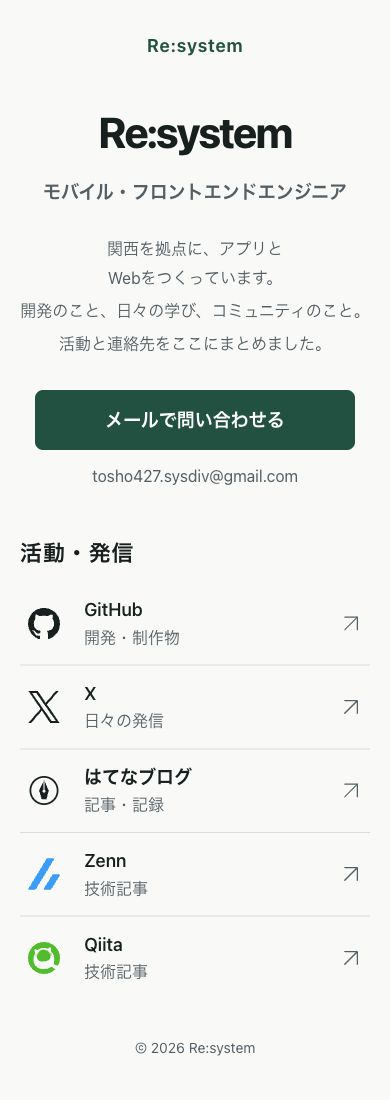
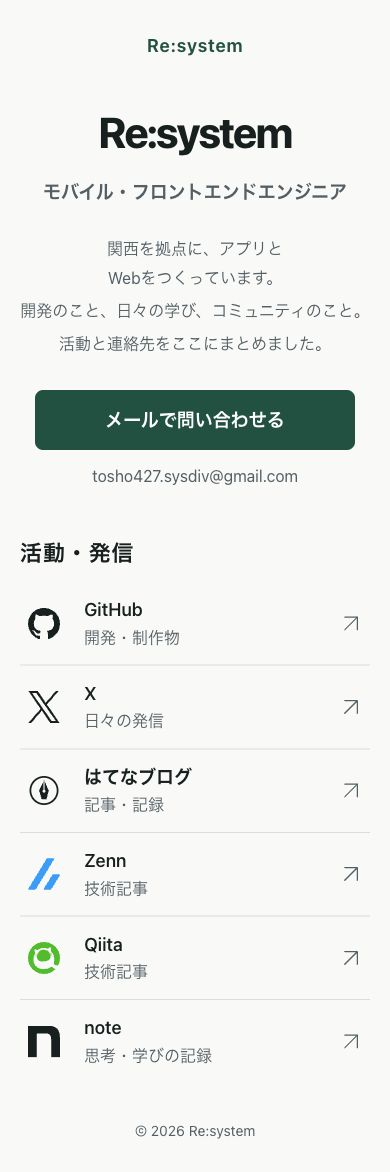
活動・発信にnoteのリンクを追加

diff --git a/src/components/sections/Links.tsx b/src/components/sections/Links.tsx
@@ -1,6 +1,7 @@
 import styles from './Links.module.css';
 import blogIcon from '../../assets/icons/blog.svg';
 import githubIcon from '../../assets/icons/github.svg';
+import noteIcon from '../../assets/icons/note.svg';
 import qiitaIcon from '../../assets/icons/qiita.svg';
 import xIcon from '../../assets/icons/x.svg';
 import zennIcon from '../../assets/icons/zenn.svg';
@@ -8,7 +9,14 @@ import { profile } from '../../data/profile';
 
 import type { FC } from 'react';
 
-const icons = { github: githubIcon, x: xIcon, blog: blogIcon, zenn: zennIcon, qiita: qiitaIcon };
+const icons = {
+  github: githubIcon,
+  x: xIcon,
+  blog: blogIcon,
+  zenn: zennIcon,
+  qiita: qiitaIcon,
+  note: noteIcon,
+};
 
 export const Links: FC = () => (
   <section className={styles.links} aria-labelledby="links-title">

diff --git a/src/data/profile.ts b/src/data/profile.ts
@@ -1,5 +1,5 @@
 export interface ActivityLink {
-  readonly id: 'github' | 'x' | 'blog' | 'zenn' | 'qiita';
+  readonly id: 'github' | 'x' | 'blog' | 'zenn' | 'qiita' | 'note';
   readonly name: string;
   readonly description: string;
   readonly url: string;
@@ -33,5 +33,6 @@ export const profile = {
     },
     { id: 'zenn', name: 'Zenn', description: '技術記事', url: 'https://zenn.dev/haitak' },
     { id: 'qiita', name: 'Qiita', description: '技術記事', url: 'https://qiita.com/hai_haino' },
+    { id: 'note', name: 'note', description: '思考・学びの記録', url: 'https://note.com/hainote' },
   ] satisfies readonly ActivityLink[],
 } as const;

diff --git a/docs/verification.md b/docs/verification.md
@@ -10,11 +10,11 @@
 - 本番ビルドを `vite preview` の同ベースパスで表示。CSS・JS・アイコンの読み込み、ブラウザコンソールにerror/warnがないことを確認。
 - 360px・390px・768px・1440px幅で表示を確認。ドキュメントのスクロール幅が各ビューポート幅と一致し、横スクロールなし。
 - 720px幅でも横スクロールなし（1440pxで200%拡大した場合と同じCSS幅でのリフロー確認）。実際のブラウザ200%ズームはプレビュー環境のショートカットが反映されず、未確認。
-- 上部・h1・フッターの屋号、肩書き・紹介文、5つの活動先の順序、動的な表示年を確認。
+- 上部・h1・フッターの屋号、肩書き・紹介文、6つの活動先の順序、動的な表示年を確認。
 - `lang="ja"`、main、h1が1つ、h1→h2の見出し順、フォームなし、装飾画像の空alt。
-- メール→GitHub→X→はてなブログ→Zenn→Qiitaの順でTab移動。各リンクに3pxの深緑フォーカス枠を確認。
+- メール→GitHub→X→はてなブログ→Zenn→Qiita→noteの順でTab移動。各リンクに3pxの深緑フォーカス枠を確認。
 - メールボタンは高さ60px、活動先は82px以上。アドレスは選択可能なテキストで、mailtoの宛先と一致。
-- 外部リンクは同じタブ、ダミー・空リンクなし。5つのURLがいずれもHTTP 200で応答。ただし、これだけでアカウント所有者や掲載意図の最終確認を代替するものではありません。
+- 外部リンクは同じタブ、ダミー・空リンクなし。6つのURLがいずれもHTTP 200で応答。ただし、これだけでアカウント所有者や掲載意図の最終確認を代替するものではありません。
 - 通常文字の配色は4.5:1以上：本文15.32:1、補助文字5.34:1、メールボタン7.77:1、リンクhover時の補助文字4.99:1。
 - `git diff --check`。依存定義・lockfile・workflow・Viteのベースパスに変更なし。
 
@@ -40,4 +40,11 @@
 - Zennの次に `https://qiita.com/hai_haino` を追加し、HTTP 200を確認。
 - QiitaのローカルSVGが表示され、360・390・768・1440px幅で横スクロールがないことを再確認。
 - TabキーでQiitaに到達し、リンク先と3pxのフォーカス枠を確認。
+- `npm run build`、変更箇所のESLint互換モード、Prettier、`git diff --check`を通過。PC・モバイルのスクリーンショットを更新。
+
+## note追加の確認（2026-10-24）
+
+- Qiitaの次に `https://note.com/hainote` を追加し、HTTP 200を確認。
+- noteのローカルSVGを表示し、360・390・768・1440px幅で横スクロールがないことを再確認。
+- Tabキーでnoteに到達し、リンク先と3pxのフォーカス枠を確認。
 - `npm run build`、変更箇所のESLint互換モード、Prettier、`git diff --check`を通過。PC・モバイルのスクリーンショットを更新。

diff --git a/README.md b/README.md
@@ -33,7 +33,7 @@ npm run preview
 
 - 小さな屋号 → プロフィール → メール → 活動・発信 → フッターの1カラム。
 - メールボタンは `mailto:`。アドレスは選択・コピーできる通常のテキストです。
-- 活動先はGitHub、X、はてなブログ、Zenn、Qiitaの順で、同じタブで開きます。
+- 活動先はGitHub、X、はてなブログ、Zenn、Qiita、noteの順で、同じタブで開きます。
 - 写真、フォーム、スキル・実績一覧、外部フォント・アイコンCDNは使用しません。
 - 従来の未使用コンポーネント・画像は保持しています。LPの表示には組み込んでいません。
 
@@ -50,5 +50,5 @@ npm run preview
 
 ## アイコン
 
-GitHub・X・Zenn・Qiitaは [Simple Icons](https://github.com/simple-icons/simple-icons) のSVGをローカルに保持しています（CC0、各商標は権利者に帰属）。
+GitHub・X・Zenn・Qiita・noteは [Simple Icons](https://github.com/simple-icons/simple-icons) のSVGをローカルに保持しています（CC0、各商標は権利者に帰属）。
 はてなブログの行は、このLP用の汎用ペンアイコンです。設計モックの画像を切り抜いたものではありません。

diff --git a/docs/design.md b/docs/design.md
@@ -13,7 +13,7 @@
 - 屋号は上部・h1・フッターで `Re:system` に統一。
 - 標準サンセリフを使用。メイン屋号はPC72px、スマートフォン40〜48px。
 - 問い合わせボタンは幅320px以内、高さ60px以上、角丸8px。連絡先文字列を直下に表示。
-- 活動先はGitHub → X → はてなブログ → Zenn → Qiita。Qiitaは2026-10-24の追加依頼を反映。行全体をリンクにし、80px以上の高さと罫線で整理。
+- 活動先はGitHub → X → はてなブログ → Zenn → Qiita → note。Qiita・noteは2026-10-24の追加依頼を反映。行全体をリンクにし、80px以上の高さと罫線で整理。
 - 通常のメールリンク、外部リンクは同じタブ。送信完了を装う表示を設けない。
 - 写真・フォーム・スキル一覧・実績一覧・固定ナビ・出現待ちアニメーションは表示しない。
 - 1つのh1、main、見出し順、キーボードフォーカス、装飾アイコンの空altを使用。
